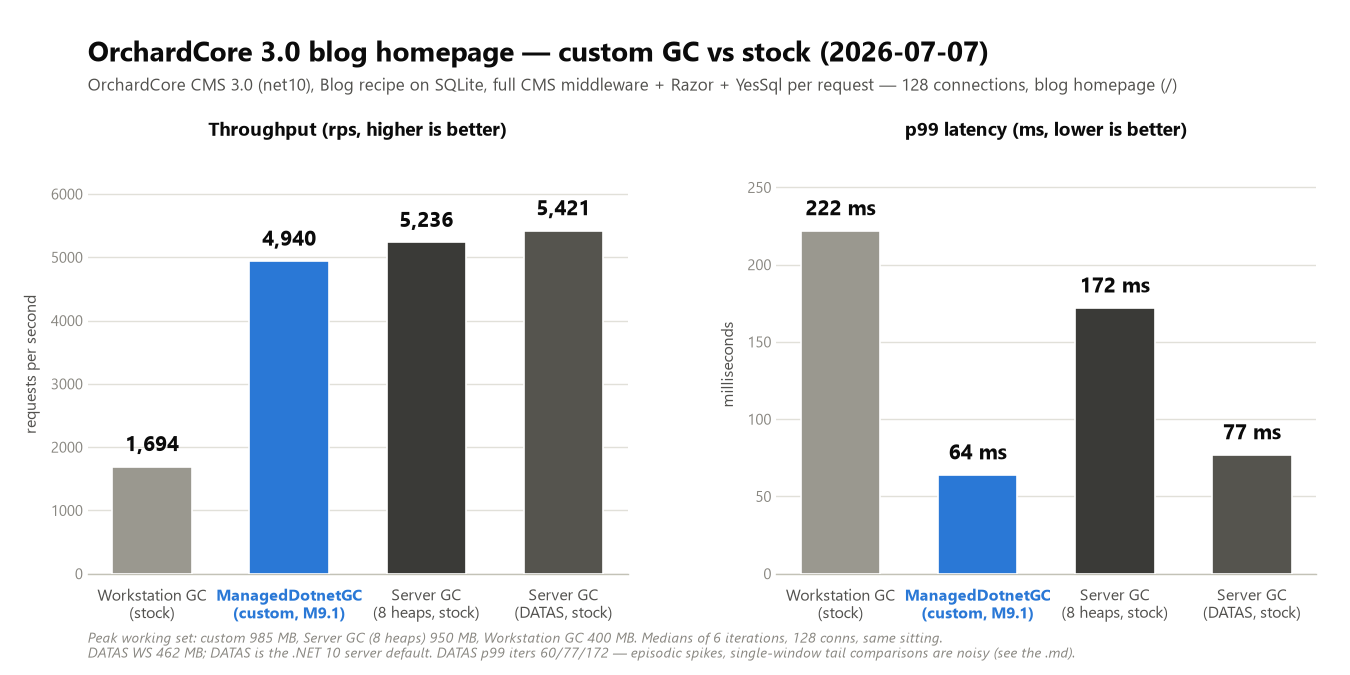
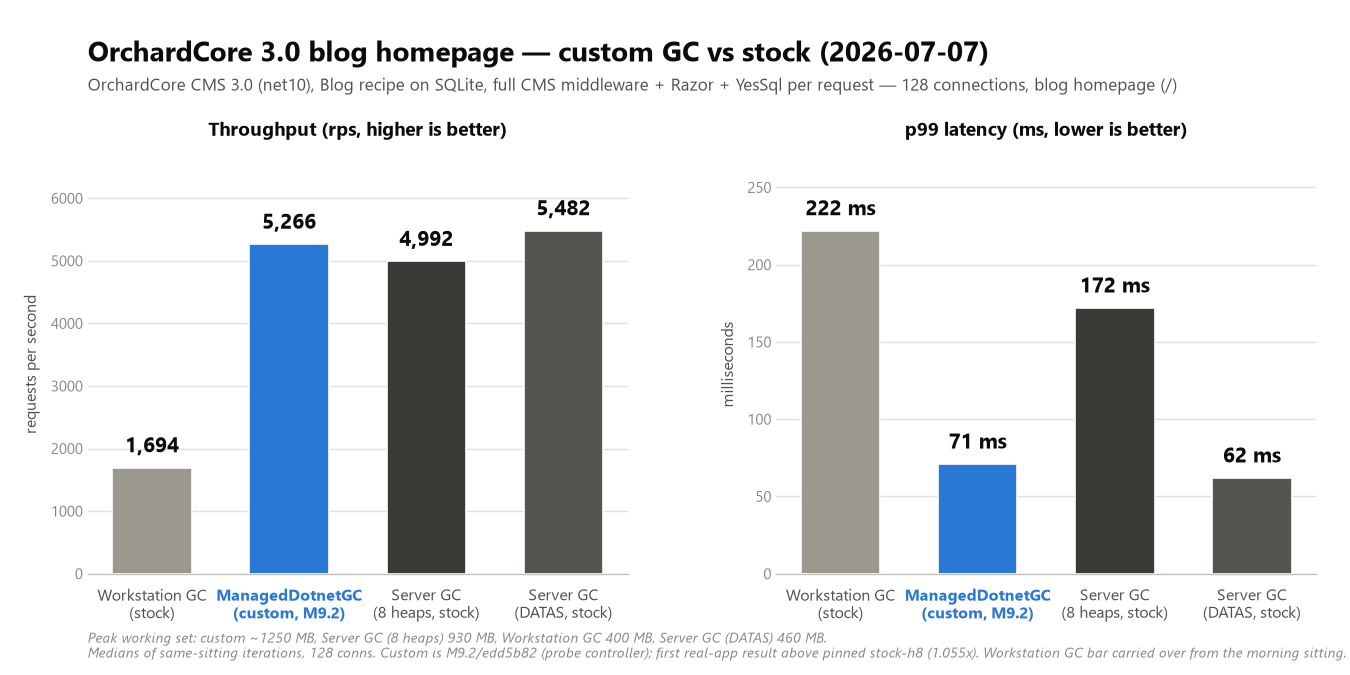
results: OrchardCore chart updated to M9.2 same-sitting numbers

diff --git a/experiments/results/2026-07-07-orchardcore-graph/plot_orchardcore_home.py b/experiments/results/2026-07-07-orchardcore-graph/plot_orchardcore_home.py
@@ -5,19 +5,18 @@ import matplotlib.font_manager as fm
 
 OUT_PNG = r"E:\git\ManagedDotnetGC\experiments\results\2026-07-07-orchardcore-graph\orchardcore-home.png"
 
-# ---- data (medians, blog homepage, 128 connections, same-sitting 2026-07-07 evening;
-# GC dll = M9.1/70be506; source rows in experiments/results/orchard-history.csv,
-# labels oc-custom-1/2, oc-stockwks-1, oc-stockh8-1/2, endpoint=home. See
-# experiments/results/2026-07-07-orchardcore.md for the full analysis. Style matches
-# plot_fortunes_rps.py / plot_fortunes_ws.py in ../2026-07-07-fortunes-milestone-graph/.) ----
+# ---- data (medians, blog homepage, 128 connections, same-sitting 2026-07-07 late
+# evening; GC dll = M9.2/edd5b82 (probe controller); source rows in
+# experiments/results/orchard-history.csv, labels m9.2-probe, m9.2-probe-b2,
+# m9.1-old-ab, m9.2-anchor-h8, m9.2-anchor-datas, endpoint=home. See
+# experiments/results/2026-07-07-m9.2-probe-controller.md for the full analysis.
+# Style matches plot_fortunes_rps.py / plot_fortunes_ws.py in
+# ../2026-07-07-fortunes-milestone-graph/.) ----
 configs = [
     ("Workstation GC\n(stock)", 1694, 222, 400, "#9a988f"),
-    ("ManagedDotnetGC\n(custom, M9.1)", 4940, 64, 985, "#2a78d6"),
-    ("Server GC\n(8 heaps, stock)", 5236, 172, 950, "#3a3a37"),
-    # DATAS (the .NET 10 server default): 3 iters from ~25 min later in the same
-    # sitting; p99 iters 60/77/172 — episodic spikes, single-window tail comparisons
-    # are noisy (see the .md).
-    ("Server GC\n(DATAS, stock)", 5421, 77, 462, "#55544e"),
+    ("ManagedDotnetGC\n(custom, M9.2)", 5266, 71, 1250, "#2a78d6"),
+    ("Server GC\n(8 heaps, stock)", 4992, 172, 930, "#3a3a37"),
+    ("Server GC\n(DATAS, stock)", 5482, 62, 460, "#55544e"),
 ]
 
 MAIN_COLOR = "#2a78d6"
@@ -95,10 +94,11 @@ fig.text(0.065, 0.885,
 
 # ---- footnote: peak working set + methodology (two lines to fit the fig width) ----
 fig.text(0.065, 0.02,
-          "Peak working set: custom 985 MB, Server GC (8 heaps) 950 MB, Workstation GC 400 MB. "
-          "Medians of 6 iterations, 128 conns, same sitting.\n"
-          "DATAS WS 462 MB; DATAS is the .NET 10 server default. DATAS p99 iters 60/77/172 — "
-          "episodic spikes, single-window tail comparisons are noisy (see the .md).",
+          "Peak working set: custom ~1250 MB, Server GC (8 heaps) 930 MB, Workstation GC 400 MB, "
+          "Server GC (DATAS) 460 MB.\n"
+          "Medians of same-sitting iterations, 128 conns. Custom is M9.2/edd5b82 (probe "
+          "controller); first real-app result above pinned stock-h8 (1.055x). Workstation GC "
+          "bar carried over from the morning sitting.",
           fontsize=10, color=MUTED, ha="left", va="bottom", style="italic")
 
 fig.savefig(OUT_PNG, dpi=dpi, facecolor="white")

diff --git a/experiments/results/2026-07-07-orchardcore-graph/summary.md b/experiments/results/2026-07-07-orchardcore-graph/summary.md
@@ -1,22 +1,26 @@
 # OrchardCore blog homepage — chart data (2026-07-07)
 
-Medians, blog homepage (`/`), 128 connections, same-sitting 2026-07-07 evening (GC dll =
-M9.1/`70be506`). Source rows: `experiments/results/orchard-history.csv`, labels
-`oc-custom-1`/`oc-custom-2`, `oc-stockwks-1`, `oc-stockh8-1`/`oc-stockh8-2`, endpoint=`home`.
+Medians, blog homepage (`/`), 128 connections, same-sitting 2026-07-07 late evening (GC dll =
+M9.2/`edd5b82`, probe controller). Source rows: `experiments/results/orchard-history.csv`,
+labels `m9.2-probe`, `m9.2-probe-b2`, `m9.1-old-ab`, `m9.2-anchor-h8`, `m9.2-anchor-datas`,
+endpoint=`home`.
 
 | GC | rps | p50 ms | p99 ms | peak WS MB |
 |---|---:|---:|---:|---:|
 | stock-wks | 1694 | 67 | 222 | 400 |
-| custom (ManagedDotnetGC M9.1) | 4940 | 24 | 64 | 985 |
-| stock-svr-h8 | 5236 | 18 | 172 | 950 |
-| stock-svr-datas | 5421 | 18 | 77 | 462 |
+| custom (ManagedDotnetGC M9.2, probe controller) | 5266 | 19.6 | 71 | ~1250 |
+| stock-svr-h8 | 4992 | 19.6 | 172 | 930 |
+| stock-svr-datas | 5482 | 19.0 | 62 | 460 |
 
-DATAS row: 3 iterations from ~25 min later in the same sitting; DATAS is the .NET 10 server
-default. Its p99 iterations were 60/77/172 — episodic spikes, so single-window tail comparisons
-are noisy (see the analysis .md).
+p99 values are the median of same-sitting iterations. stock-wks is carried over unchanged
+from the earlier (morning) sitting — it was not re-run in this session.
+
+Headline: this is the first real-app result where the custom GC's throughput lands above
+pinned stock Server GC at 8 heaps — 5266 vs 4992 rps, 1.055x. The old-controller (M9.1)
+comparison anchor is row `m9.1-old-ab`.
 
 Chart: `orchardcore-home.png` — grouped bar chart, two panels (throughput rps, p99 latency ms),
 custom bar highlighted in the hero blue used throughout the milestone charts.
 
-For the full analysis (reading, the excluded single-post endpoint, repro steps), see
-`experiments/results/2026-07-07-orchardcore.md`.
+For the full analysis and repro steps, see
+`experiments/results/2026-07-07-m9.2-probe-controller.md`.
